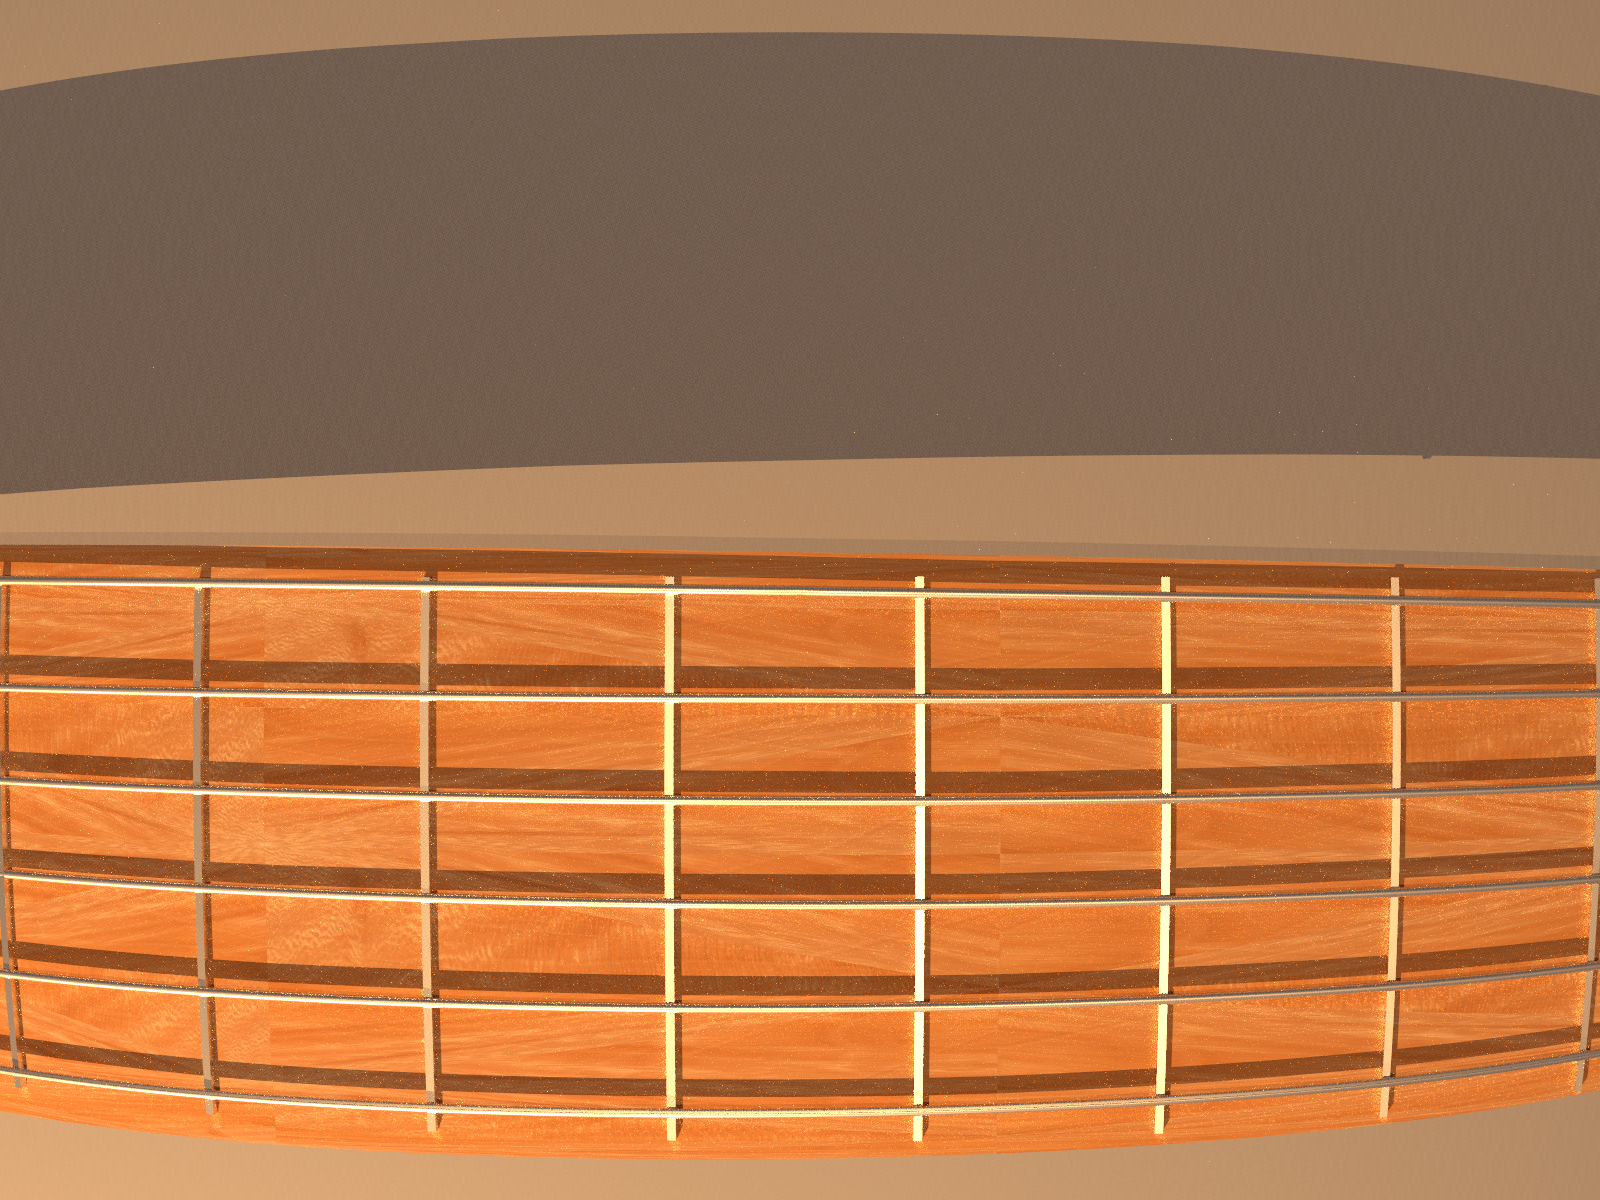
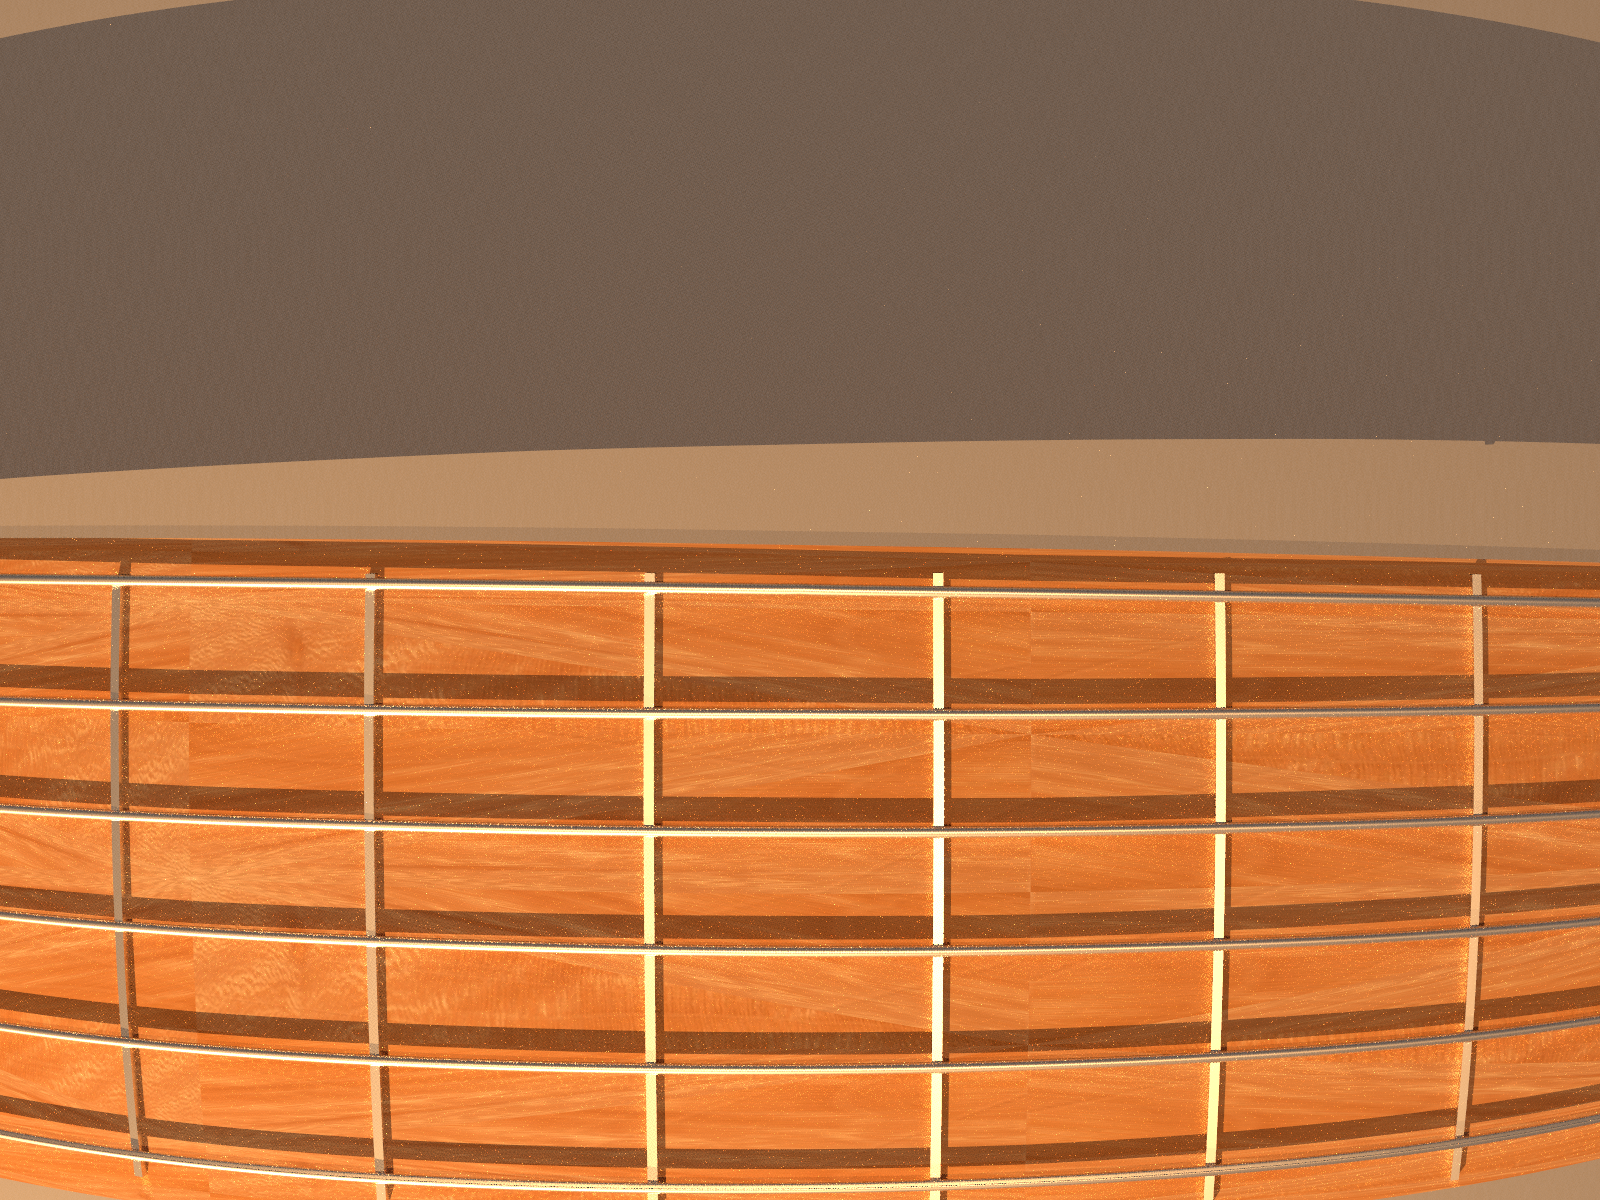
Vorzeichenfehler in letzter Grafik korrigiert und Gitarren Pics ausgetauscht

diff --git a/doc/04_Discussion.tex b/doc/04_Discussion.tex
@@ -6,7 +6,7 @@ In der durchgeführten Arbeit hat sich gezeigt, dass mit einer relativ kleinen M
 	\begin{subfigure}{.5\textwidth}
 		\raggedleft
 		\includegraphics[width=\textwidth]{img/guitarDistorted.png}
-		\caption{Poly3-Modell und $k=0.2$}
+		\caption{Poly3-Modell und $k=-0.2$}
 	\end{subfigure}
 \begin{subfigure}{.5\textwidth}
 		\raggedright
